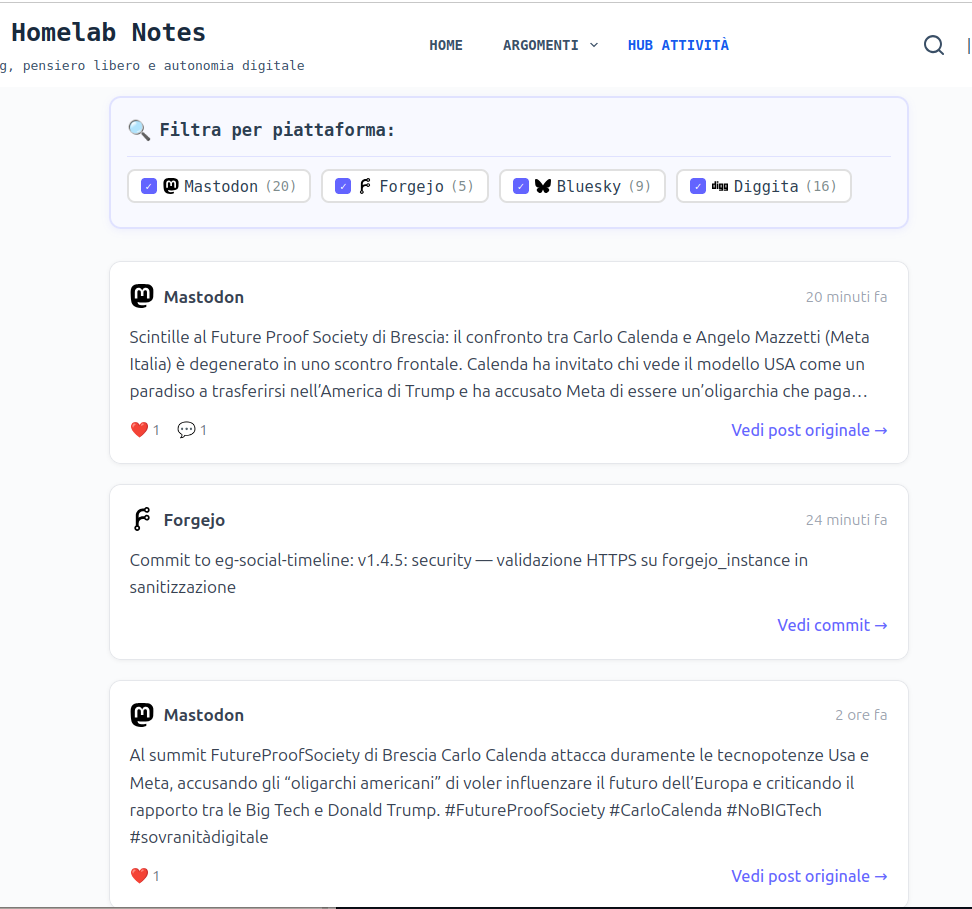
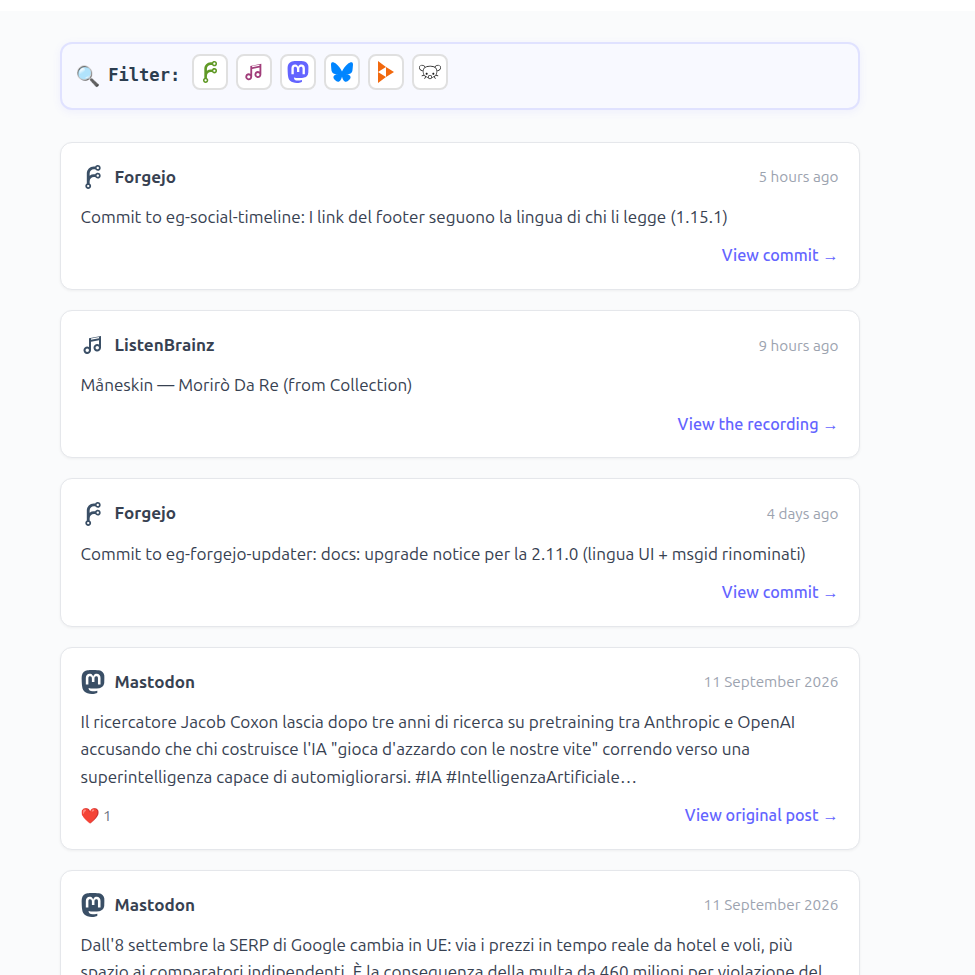
Descrizioni allineate ai default e asset fuori dal pacchetto (1.15.2)
Otto descrizioni del pannello citavano ancora i default di prima della
1.14.1: "Default: 20" per Mastodon, "Default: 10" per Bluesky, Lemmy,
Pixelfed, ListenBrainz, feed RSS e post in pagina, "Default: 1 hour"
per la cache. I valori veri sono 5 per fonte, 50 post in pagina e 30
minuti. Se n'è accorto chi preparava gli screenshot per WordPress.org:
nello stesso scatto si leggeva il campo a 5 e sotto "Default: 20".
Forgejo e PeerTube erano già corretti.

L'elenco degli screenshot nel readme.txt usava la sintassi immagine di
Markdown con URL verso Forgejo. La directory di WordPress.org non la
interpreta: sulla pagina del plugin non sarebbe comparso nulla. Ora è
l'elenco numerato che il parser si aspetta, con quattro voci.

Gli asset della pagina directory (quattro screenshot rifatti in
inglese, banner e icona) entrano nel repository ma escono dal pacchetto
con "assets/ export-ignore": su WordPress.org vivono nella cartella
assets/ di SVN, accanto a trunk/, e non hanno motivo di farsi scaricare
da chi installa il plugin.

diff --git a/eg-social-timeline.php b/eg-social-timeline.php
@@ -3,7 +3,7 @@
  * Plugin Name: EG Social Timeline
  * Plugin URI: https://emanuelegori.uno/en/plugins/eg-social-timeline/
  * Description: Unified chronological timeline of your public activity from Mastodon, Bluesky, Pixelfed, PeerTube, Forgejo, Lemmy, ListenBrainz and any RSS or Atom feed. Zero JavaScript, zero tracking.
- * Version: 1.15.1
+ * Version: 1.15.2
  * Author: Emanuele Gori
  * Author URI: https://emanuelegori.uno
  * License: GPL-2.0-or-later
@@ -38,7 +38,7 @@ https://www.gnu.org/licenses/gpl-2.0.html
 if (!defined('ABSPATH')) exit;
 
 // Constants
-define('EG_SOCIAL_TIMELINE_VERSION', '1.15.1');
+define('EG_SOCIAL_TIMELINE_VERSION', '1.15.2');
 define('EG_SOCIAL_TIMELINE_DIR', plugin_dir_path(__FILE__));
 define('EG_SOCIAL_TIMELINE_URL', plugin_dir_url(__FILE__));
 define('EG_SOCIAL_TIMELINE_DEBUG', false);
@@ -1160,7 +1160,7 @@ function eg_social_timeline_bluesky_limit_callback() {
            max="100"
            class="small-text">
     <p class="description">
-        <?php esc_html_e('Maximum number of Bluesky posts to fetch (0 = unlimited). Default: 10', 'eg-social-timeline'); ?>
+        <?php esc_html_e('Maximum number of Bluesky posts to fetch (0 = unlimited). Default: 5', 'eg-social-timeline'); ?>
     </p>
     <?php
 }
@@ -1177,7 +1177,7 @@ function eg_social_timeline_mastodon_limit_callback() {
            max="100"
            class="small-text">
     <p class="description">
-        <?php esc_html_e('Maximum number of Mastodon posts to fetch (0 = unlimited). Default: 20', 'eg-social-timeline'); ?>
+        <?php esc_html_e('Maximum number of Mastodon posts to fetch (0 = unlimited). Default: 5', 'eg-social-timeline'); ?>
     </p>
     <?php
 }
@@ -1193,7 +1193,7 @@ function eg_social_timeline_lemmy_limit_callback() {
            max="100"
            class="small-text">
     <p class="description">
-        <?php esc_html_e('Maximum number of Lemmy posts included in the timeline. 0 = no limit. Default: 10', 'eg-social-timeline'); ?>
+        <?php esc_html_e('Maximum number of Lemmy posts included in the timeline. 0 = no limit. Default: 5', 'eg-social-timeline'); ?>
     </p>
     <?php
 }
@@ -1243,7 +1243,7 @@ function eg_social_timeline_pixelfed_limit_callback() {
            max="100"
            class="small-text">
     <p class="description">
-        <?php esc_html_e('Maximum number of Pixelfed posts included in the timeline. 0 = no limit. Default: 10', 'eg-social-timeline'); ?>
+        <?php esc_html_e('Maximum number of Pixelfed posts included in the timeline. 0 = no limit. Default: 5', 'eg-social-timeline'); ?>
     </p>
     <?php
 }
@@ -1259,7 +1259,7 @@ function eg_social_timeline_listenbrainz_limit_callback() {
            max="100"
            class="small-text">
     <p class="description">
-        <?php esc_html_e('Maximum number of listens included in the timeline. 0 = no limit. Default: 10', 'eg-social-timeline'); ?>
+        <?php esc_html_e('Maximum number of listens included in the timeline. 0 = no limit. Default: 5', 'eg-social-timeline'); ?>
     </p>
     <?php
 }
@@ -1275,7 +1275,7 @@ function eg_social_timeline_rss_limit_callback() {
            max="100"
            class="small-text">
     <p class="description">
-        <?php esc_html_e('Maximum number of feed items included in the timeline. 0 = no limit. Default: 10', 'eg-social-timeline'); ?>
+        <?php esc_html_e('Maximum number of feed items included in the timeline. 0 = no limit. Default: 5', 'eg-social-timeline'); ?>
     </p>
     <?php
 }
@@ -1292,7 +1292,7 @@ function eg_social_timeline_post_limit_callback() {
            max="100"
            class="small-text">
     <p class="description">
-        <?php esc_html_e('Maximum number of posts to show in the timeline (1–100). Default: 10', 'eg-social-timeline'); ?>
+        <?php esc_html_e('Maximum number of posts to show in the timeline (1–100). Default: 50', 'eg-social-timeline'); ?>
     </p>
     <?php
 }
@@ -1311,7 +1311,7 @@ function eg_social_timeline_cache_duration_callback() {
         <option value="86400" <?php selected($duration, 86400); ?>>24 <?php esc_html_e('hours', 'eg-social-timeline'); ?></option>
     </select>
     <p class="description">
-        <?php esc_html_e('Feed cache duration. Longer cache = fewer requests to servers. Default: 1 hour', 'eg-social-timeline'); ?>
+        <?php esc_html_e('Feed cache duration. Longer cache = fewer requests to servers. Default: 30 minutes', 'eg-social-timeline'); ?>
     </p>
     <?php
 }

diff --git a/CHANGELOG.md b/CHANGELOG.md
@@ -6,6 +6,17 @@ Il formato è basato su [Keep a Changelog](https://keepachangelog.com/it/1.0.0/)
 
 ---
 
+## [1.15.2] - 2026-09-20
+
+### Fixed
+- **Otto descrizioni citavano i default di prima della 1.14.1.** Il pannello diceva "Default: 20" per Mastodon, "Default: 10" per Bluesky, Lemmy, Pixelfed, ListenBrainz, feed RSS e per i post in pagina, "Default: 1 hour" per la cache — mentre i valori veri sono 5 per fonte, 50 post in pagina e 30 minuti. Se ne è accorto chi preparava gli screenshot per WordPress.org: nello stesso scatto si leggeva il campo a 5 e sotto "Default: 20". Forgejo e PeerTube erano già corretti.
+- **L'elenco degli screenshot nel `readme.txt`** era scritto con la sintassi immagine di Markdown e URL verso Forgejo: la directory di WordPress.org non la interpreta e sulla pagina del plugin non sarebbe comparso nulla. Ora è l'elenco numerato che il parser si aspetta, con quattro voci.
+
+### Changed
+- **Gli asset della pagina directory escono dal pacchetto** (`assets/ export-ignore`): screenshot, banner e icona restano versionati nel repository ma non vengono più scaricati da chi installa il plugin.
+
+---
+
 ## [1.15.1] - 2026-09-20
 
 ### Changed

diff --git a/README.it-IT.md b/README.it-IT.md
@@ -1,6 +1,6 @@
 # EG Social Timeline
 
-[![Versione](https://img.shields.io/badge/Versione-1.15.1-green)](https://git.emanuelegori.uno/emanuelegori/eg-social-timeline)
+[![Versione](https://img.shields.io/badge/Versione-1.15.2-green)](https://git.emanuelegori.uno/emanuelegori/eg-social-timeline)
 [![Licenza](https://img.shields.io/badge/Licenza-GPL--2.0--or--later-blue.svg)](LICENSE.IT.md)
 [![WordPress](https://img.shields.io/badge/WordPress-5.0+-orange.svg)](https://wordpress.org)
 [![PHP](https://img.shields.io/badge/PHP-7.4+-purple.svg)](https://php.net)
@@ -230,6 +230,15 @@ eg-social-timeline/
 ---
 
 ## Changelog
+
+### [1.15.2] - 2026-09-20
+
+#### Fixed
+- Otto descrizioni citavano i default di prima della 1.14.1; ora corrispondono ai valori veri (5 per fonte, 50 post, 30 minuti di cache).
+- L'elenco degli screenshot nel `readme.txt` è ora nel formato che la directory di WordPress.org sa leggere.
+
+#### Changed
+- Gli asset della pagina directory non vengono più inclusi nel pacchetto del plugin.
 
 ### [1.15.1] - 2026-09-20
 

diff --git a/README.md b/README.md
@@ -1,6 +1,6 @@
 # EG Social Timeline
 
-[![Version](https://img.shields.io/badge/Version-1.15.1-green)](https://git.emanuelegori.uno/emanuelegori/eg-social-timeline)
+[![Version](https://img.shields.io/badge/Version-1.15.2-green)](https://git.emanuelegori.uno/emanuelegori/eg-social-timeline)
 [![License](https://img.shields.io/badge/License-GPL--2.0--or--later-blue.svg)](LICENSE.md)
 [![WordPress](https://img.shields.io/badge/WordPress-5.0+-orange.svg)](https://wordpress.org)
 [![PHP](https://img.shields.io/badge/PHP-7.4+-purple.svg)](https://php.net)
@@ -230,6 +230,15 @@ eg-social-timeline/
 ---
 
 ## Changelog
+
+### [1.15.2] - 2026-09-20
+
+#### Fixed
+- Eight field descriptions still quoted the defaults from before 1.14.1; they now match the real values (5 per source, 50 posts, 30 minutes of cache).
+- The screenshot list in `readme.txt` is now in the format the plugin directory reads.
+
+#### Changed
+- Plugin directory assets are no longer shipped inside the plugin package.
 
 ### [1.15.1] - 2026-09-20
 
